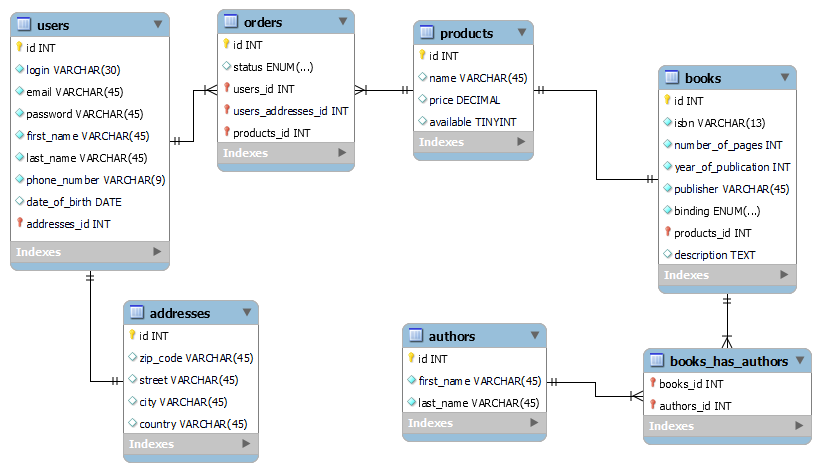
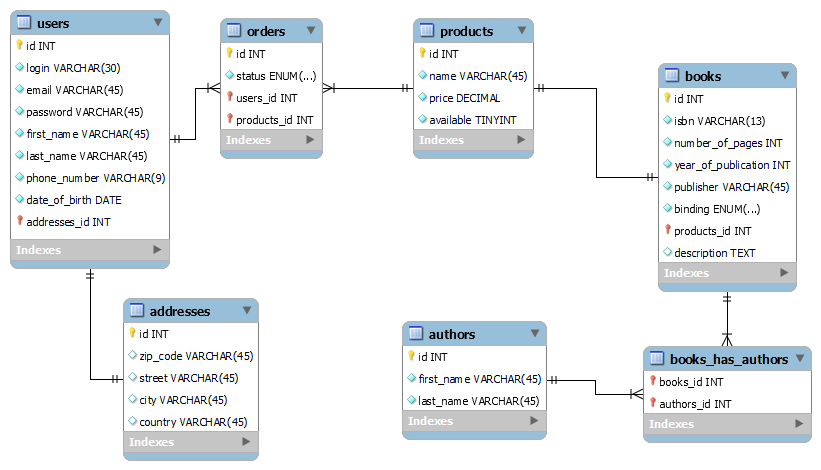
changed BasicValidator to StringValidator, changed db_schema, added DateValidator

diff --git a/src/main/java/pl/bookstore/users/value_objects/LoginVO.java b/src/main/java/pl/bookstore/users/value_objects/LoginVO.java
@@ -1,14 +1,14 @@
 package pl.bookstore.users.value_objects;
 
 import lombok.NoArgsConstructor;
-import pl.bookstore.basic.BasicValidator;
+import pl.bookstore.basic.StringValidator;
 import pl.bookstore.basic.ValidationException;
 
 import javax.persistence.Embeddable;
 
 @Embeddable
 @NoArgsConstructor
-public class LoginVO implements BasicValidator {
+public class LoginVO implements StringValidator {
 
     public static final String REGEX = "^[A-Za-z0-9]+([A-Za-z0-9]*|[._-]?[A-Za-z0-9]+)*$";
     public static final int MIN_LENGTH = 5;

diff --git a/src/main/java/pl/bookstore/users/value_objects/NameVO.java b/src/main/java/pl/bookstore/users/value_objects/NameVO.java
@@ -1,14 +1,14 @@
 package pl.bookstore.users.value_objects;
 
 import lombok.NoArgsConstructor;
-import pl.bookstore.basic.BasicValidator;
+import pl.bookstore.basic.StringValidator;
 import pl.bookstore.basic.ValidationException;
 
 import javax.persistence.Embeddable;
 
 @Embeddable
 @NoArgsConstructor
-public class NameVO implements BasicValidator {
+public class NameVO implements StringValidator {
 
     public static final String REGEX = "^[A-Za-z]+([A-Za-z0-9]*|[._-]?[A-Za-z0-9]+)*$";
     public static final int MIN_LENGTH = 5;

diff --git a/src/main/java/pl/bookstore/basic/DateValidator.java b/src/main/java/pl/bookstore/basic/DateValidator.java
@@ -1,0 +1,18 @@
+package pl.bookstore.basic;
+
+import org.springframework.stereotype.Component;
+
+import java.time.LocalDate;
+
+@Component
+public interface DateValidator {
+
+    default boolean isInFuture(LocalDate date){
+        return date.isAfter(LocalDate.now());
+    }
+
+    default boolean isOldEnough(LocalDate date, int years){
+        return date.isBefore(LocalDate.now().minusYears(years));
+    }
+
+}

diff --git a/src/main/java/pl/bookstore/basic/StringValidator.java b/src/main/java/pl/bookstore/basic/StringValidator.java
@@ -3,7 +3,7 @@ package pl.bookstore.basic;
 import org.springframework.stereotype.Component;
 
 @Component
-public interface BasicValidator {
+public interface StringValidator {
 
     default boolean isValid(String field, int minLength, int maxLength, String regex) {
         return isNotNull(field) &&
